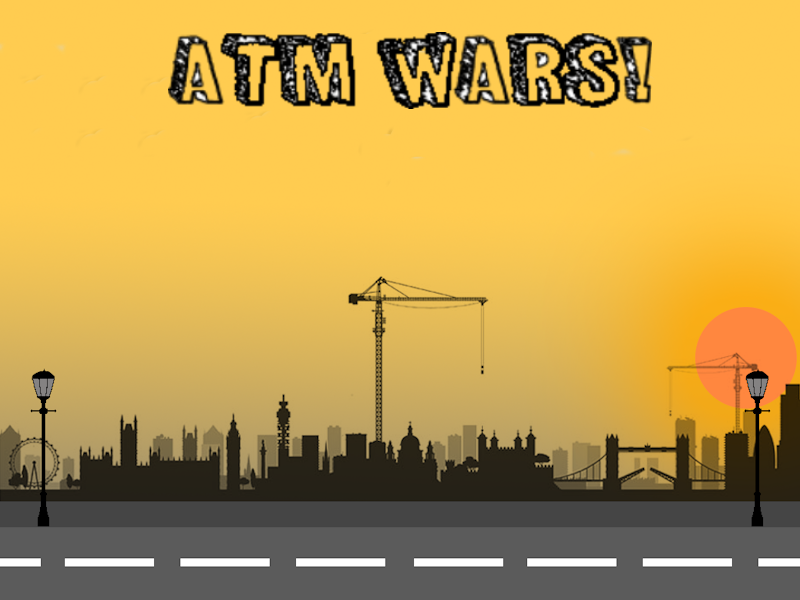
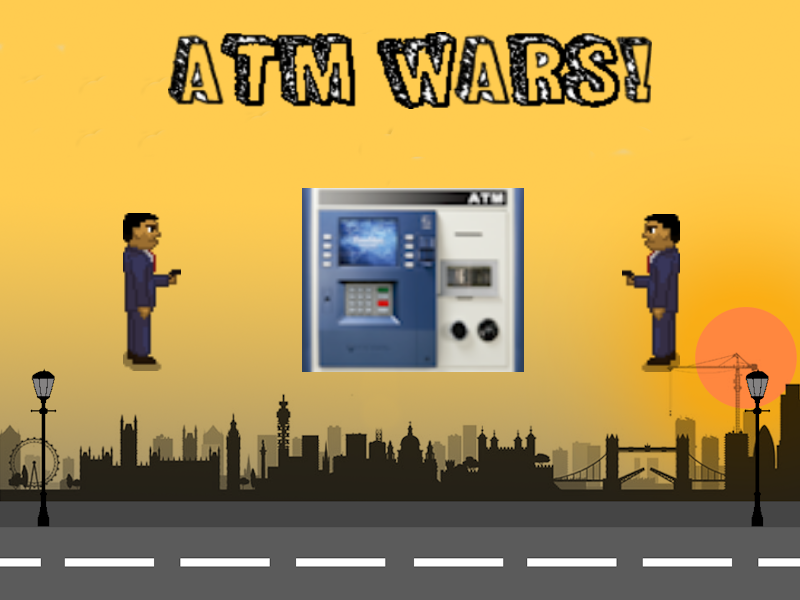
unsynchronized methods

Changed region(s): [[0.375, 0.3, 0.6562, 0.72], [0.7812, 0.33, 0.875, 0.63], [0.1562, 0.33, 0.25, 0.63]]

diff --git a/js/game.js b/js/game.js
@@ -12,7 +12,6 @@ var Wkey;
 var Skey;
 var Dkey;
 var balance = 0;
-var newBalance = 0;
 var balanceText;
 var prevShot = 0;
 var Rkey;
@@ -25,127 +24,65 @@ var timer;
 var timeLeft = 32;
 var timerText = 0;
 
-function deposit(player1)
-{
-	if (prevShot+.5 < this.game.time.totalElapsedSeconds())
-	{
-	newBalance = balance + 100;
-	balance = newBalance;
-	balanceText.setText('Balance: $' + balance);
-	p1Count++;
-	prevShot = this.game.time.totalElapsedSeconds();
-	}
-		
-}
 
-function withdraw(player2)
-{
-	if (prevShot+.5 < this.game.time.totalElapsedSeconds())
-	{
-	newBalance = balance - 100;
-	balance = newBalance;
-	balanceText.setText('Balance: $' + balance);
-	p2Count++;
-	prevShot = this.game.time.totalElapsedSeconds();
-	}
-	
-}
 
-function killPlayer1(player1, bullet)
-{
-	//play kill animation
-	if (player2.x < player1.x)
-	{
-		//player1.animations.play('dieRight');
-	}
-	if (player2.x > player1.x)
-	{
-		//player1.animations.play('dieLeft');
-	}
 
-	try{
-		bullet.kill();
-		player1.kill();
-	}
-	catch (err)
-	{
-		
-	}
-	
-	
-	//respawn player
-	player1 = game.add.sprite(32, 0, 'businessmoney');
-	 game.physics.arcade.enable(player1);
-	 player1.body.bounce.y = 0.2;
-    player1.body.gravity.y = 400;
-    player1.body.collideWorldBounds = true;
-}
-
-	
-	   
-	
-	  
-	  
-function killPlayer2(player2, bullet)
-{
-	//play kill animation
-	if (player1.x < player2.x)
-	{
-	//	player2.animations.play('dieRight');
-	}
-	if (player1.x > player2.x)
-	{
-	//	player2.animations.play('dieLeft');
-	}
-	try {
-		bullet.kill();
-		player2.kill();
-	}
-	catch (err)
-	{
-		
-	}
-	//respawn player
-	player2 = game.add.sprite(650, 0, 'businessmoney');
-	game.physics.arcade.enable(player2);
-	player2.body.bounce.y = 0.2;
-    player2.body.gravity.y = 400;
-    player2.body.collideWorldBounds = true;
-}
-function p1ShootLeft()
-{
-	player1.animations.play('shootLeft');
-	bullet = game.add.sprite(player1.x, player1.y + 30, 'bullet');
-	game.physics.arcade.enable(bullet);
-	bullet.body.velocity.x = -400;
-	game.physics.arcade.collide(bullet, player2);
-}
-
-function p1ShootRight()
-{
-	player1.animations.play('shootRight');
-	bullet = game.add.sprite(player1.x+30, player1.y + 30, 'bullet');
-	game.physics.arcade.enable(bullet);
-	bullet.body.velocity.x = 400;
-	game.physics.arcade.collide(bullet, player2);
-}
-
-function p2ShootLeft()
-{
 	player2.animations.play('shootLeft');
 	bullet = game.add.sprite(player2.x, player1.y + 30, 'bullet');
 	game.physics.arcade.enable(bullet);
 	bullet.body.velocity.x = -400;
-	game.physics.arcade.collide(bullet, player1);
-}
-
-function p2ShootRight()
-{
+	game.physics.arcade.collide(bullet, player1)
 	player1.animations.play('shootRight');
 	bullet = game.add.sprite(player2.x + 30, player1.y + 30, 'bullet');
 	game.physics.arcade.enable(bullet);
 	bullet.body.velocity.x = 400;
-	game.physics.arcade.collide(bullet, player1);
+	game.physics.arcade.collide(bullet, playe
+function endGame() {
+	
+	game.paused = true;
+	var w = game.world.width;
+	var h = game.world.height;
+
+	// Then add the menu
+	var menu = game.add.sprite(w/2, h/2, 'menu');
+	menu.anchor.setTo(0.5, 0.5);
+	
+	var endMessage = "GAME OVER\n";
+	if (p1Count > p2Count)
+	{
+		endMessage = endMessage + "Player 1 Wins!";
+	}
+	else
+	{
+		endMessage = endMessage + "Player 2 Wins!";
+	}
+	
+	var endText = game.add.text(game.world.centerX, game.world.centerY, endMessage,{fill: '#fff' });
+	endText.anchor.setTo(0.5,0.5);
+
+	// And a label to illustrate which menu item was chosen. (This is not necessary)
+	var choiceLabel = game.add.text(game.world.centerX, game.world.centerY + menu.height/2+30, 'Click here to restart', {fill: '#000000' });
+	choiceLabel.anchor.setTo(0.5, 0.5);
+
+	
+	// Add a input listener that can help us return from being paused
+    game.input.onDown.add(restart, self);
+	function restart(event){
+		location.reload();
+	}
+	
+}
+
+function delay()
+{
+	var timeNow = this.game.tiime.totalElapsedSeconds();
+	var delay = Math.Random();
+	
+	while (this.game.time.totalElapsedSeconds() - timeNow)<delay)
+	{
+		//WAIT
+	}
+	
 }
 
 

diff --git a/js/play.js b/js/play.js
@@ -249,4 +249,32 @@ update : function() {
 		}
 
 },
+
+deposit : function()
+{
+	console.log('Depositing $100');
+	var newBalance = balance + 100;
+	delay();
+	console.log(', new balance is ' + newBalance);
+	balance = newBalance;
+	delay();
+	balanceText.setText('Balance: $' + balance);
+	p1Count++;
+	
+		
+},
+
+withdraw : function ()
+{
+	console.log('Withdrawing $100');
+	newBalance = balance - 100;
+	delay();
+	console.log(', new balance is ' + newBalance);
+	balance = newBalance;
+	delay();
+	balanceText.setText('Balance: $' + balance);
+	p2Count++;
+	
+	
+},
 };

diff --git a/js/menu.js b/js/menu.js
@@ -9,11 +9,11 @@ var menuState = {
 		
 		
 		
-		var startLabel = game.add.text(80, game.world.height - 80,
+		var startLabel = game.add.text(80, game.world.height - 75,
 		'press the W key to play unsynchronized',
 		{font: '25px Arial', fill: '#ffffff'});
 		
-		var startLabel = game.add.text(80, game.world.height - 40,
+		var startLabel = game.add.text(80, game.world.height - 35,
 		'press the E key to play synchronized',
 		{font: '25px Arial', fill: '#ffffff'});
 		
